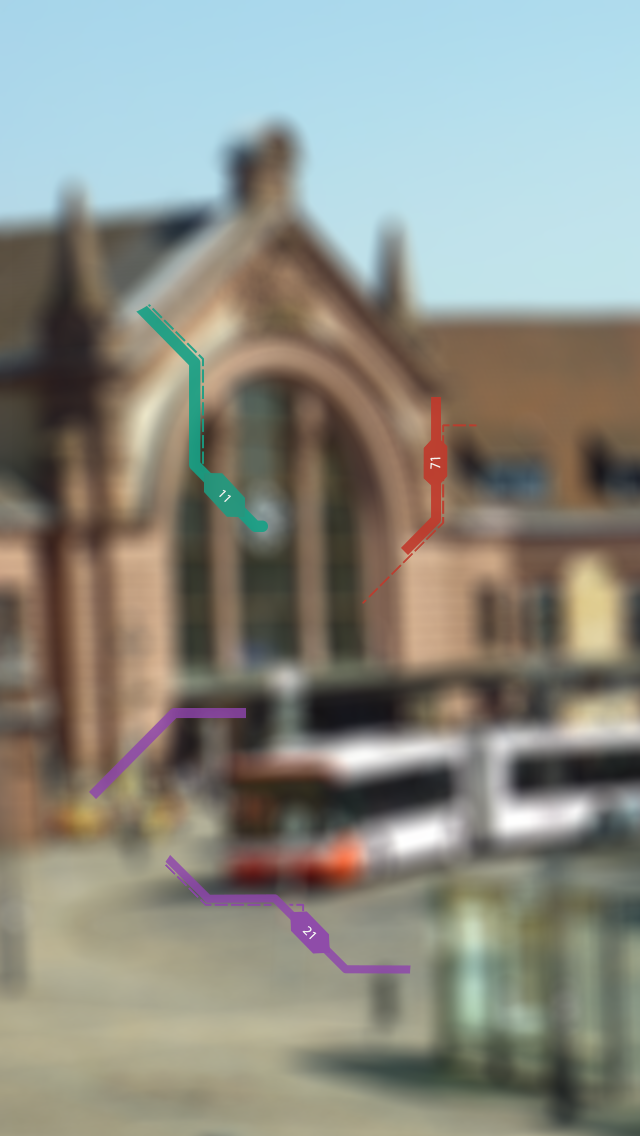
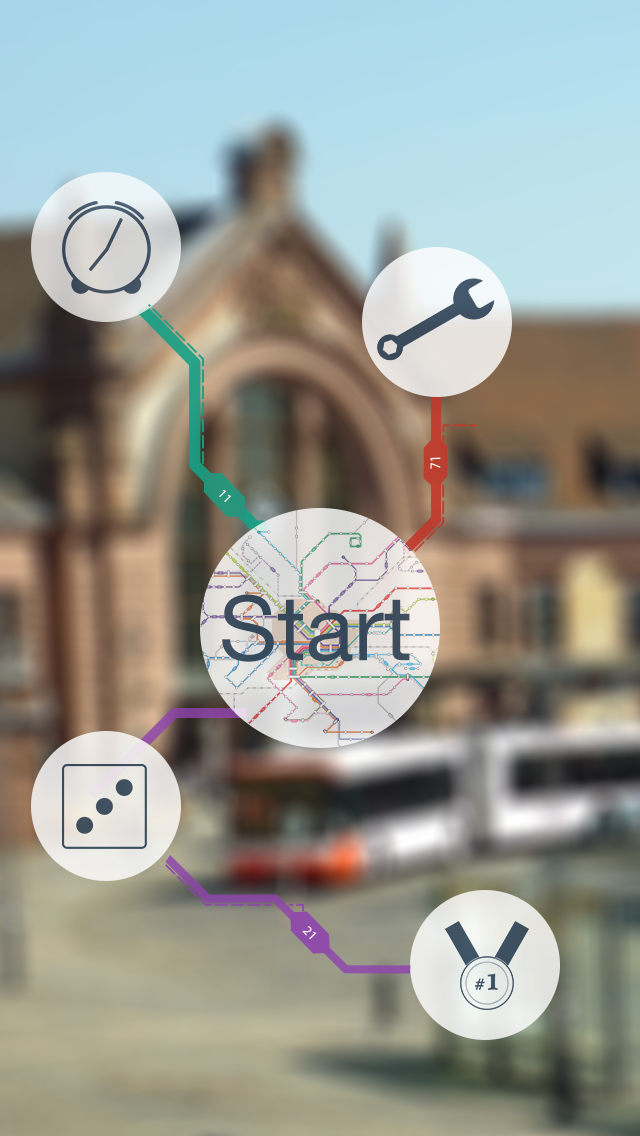
Button background fix + Main-Menu background image edit

diff --git a/VosTest/app/view/achView.js b/VosTest/app/view/achView.js
@@ -45,7 +45,7 @@ Ext.define('VosNavigator.view.achView', {
                         height: '65px',
                         html: '<p>zurück</p>',
                         id: 'achBackButton',
-                        style: '-moz-border-radius: 46px;\n-webkit-border-radius: 46px;\nborder-radius: 46px; /* border radius */\n-moz-background-clip: padding;\n-webkit-background-clip: padding-box;\nbackground-clip: padding-box; /* prevents bg color from leaking outside the border */\nbackground-color: rgba(51, 73, 93, 0.9);\ndisplay:block;\nfloat:left;\nfont-size:13px;\nline-height:65px;',
+                        style: '-moz-border-radius: 46px;\n-webkit-border-radius: 46px;\nborder-radius: 46px; /* border radius */\n-moz-background-clip: padding;\n-webkit-background-clip: padding-box;\nbackground-clip: padding-box; /* prevents bg color from leaking outside the border */\nbackground-color: #3d4f5e;\nopacity: 0.9;\ncolor:#fff;\nline-height:65px;\ndisplay:block;\nfloat:left;\nfont-size:13px;\nline-height:65px;',
                         styleHtmlContent: true,
                         width: 65,
                         text: 'zurück'
@@ -61,7 +61,7 @@ Ext.define('VosNavigator.view.achView', {
                         html: 'Punkte',
                         id: 'scoreButton',
                         right: '0px',
-                        style: '-moz-border-radius: 46px;\n-webkit-border-radius: 46px;\nborder-radius: 46px; /* border radius */\n-moz-background-clip: padding;\n-webkit-background-clip: padding-box;\nbackground-clip: padding-box; /* prevents bg color from leaking outside the border */\nbackground-color: rgba(51, 73, 93, 0.9);\nfloat:right;\ndisplay:block;\nline-height:65px;\nfont-size:13px;\nfont-weight:normal;',
+                        style: '-moz-border-radius: 46px;\n-webkit-border-radius: 46px;\nborder-radius: 46px; /* border radius */\n-moz-background-clip: padding;\n-webkit-background-clip: padding-box;\nbackground-clip: padding-box; /* prevents bg color from leaking outside the border */\nbackground-color: #3d4f5e;\nopacity: 0.9;\ncolor:#fff;\nline-height:65px;\nfloat:right;\ndisplay:block;\nline-height:65px;\nfont-size:13px;\nfont-weight:normal;',
                         styleHtmlContent: true,
                         width: 65,
                         text: 'score'

diff --git a/VosTest/app/view/FahrplanerView.js b/VosTest/app/view/FahrplanerView.js
@@ -127,7 +127,7 @@ Ext.define('VosNavigator.view.fahrplanerView', {
                         html: '<h1 style="line-height:65px;font-size:15px;">zurück</h1>',
                         id: 'fahrplanerBackButton',
                         right: '0px',
-                        style: '-moz-border-radius: 46px;\n-webkit-border-radius: 46px;\nborder-radius: 46px; /* border radius */\n-moz-background-clip: padding;\n-webkit-background-clip: padding-box;\nbackground-clip: padding-box; /* prevents bg color from leaking outside the border */\nbackground-color: rgba(51, 73, 93, 0.9);\nfloat:right;\ndisplay:block;\nfont-size:11px;',
+                        style: '-moz-border-radius: 46px;\n-webkit-border-radius: 46px;\nborder-radius: 46px; /* border radius */\n-moz-background-clip: padding;\n-webkit-background-clip: padding-box;\nbackground-clip: padding-box; /* prevents bg color from leaking outside the border */\nbackground-color: #3d4f5e;\nopacity: 0.9;\ncolor:#fff;\nline-height:65px;\nfloat:right;\ndisplay:block;\nfont-size:11px;',
                         styleHtmlContent: true,
                         width: 65,
                         text: 'back'

diff --git a/VosTest/app/view/SettingsView.js b/VosTest/app/view/SettingsView.js
@@ -68,7 +68,7 @@ Ext.define('VosNavigator.view.settingsView', {
                         html: '<h1 style="line-height:65px;font-size:15px;">zurück</h1>',
                         id: 'settingsBackButton',
                         right: '0px',
-                        style: '-moz-border-radius: 46px;\n-webkit-border-radius: 46px;\nborder-radius: 46px; /* border radius */\n-moz-background-clip: padding;\n-webkit-background-clip: padding-box;\nbackground-clip: padding-box; /* prevents bg color from leaking outside the border */\nbackground-color: rgba(51, 73, 93, 0.9);\nfloat:right;\ndisplay:block;\nfont-size:11px;',
+                        style: '-moz-border-radius: 46px;\n-webkit-border-radius: 46px;\nborder-radius: 46px; /* border radius */\n-moz-background-clip: padding;\n-webkit-background-clip: padding-box;\nbackground-clip: padding-box; /* prevents bg color from leaking outside the border */\nbackground-color: #3d4f5e;\nopacity: 0.9;\ncolor:#fff;\nline-height:65px;\nfloat:right;\ndisplay:block;\nfont-size:11px;',
                         styleHtmlContent: true,
                         width: 65,
                         text: 'back'

diff --git a/VosTest/app/view/WeckerView.js b/VosTest/app/view/WeckerView.js
@@ -125,7 +125,7 @@ Ext.define('VosNavigator.view.weckerView', {
                         html: '<h1 style="line-height:65px;font-size:15px;">zurück</h1>',
                         id: 'weckerBackButton',
                         right: '0px',
-                        style: '-moz-border-radius: 46px;\n-webkit-border-radius: 46px;\nborder-radius: 46px; /* border radius */\n-moz-background-clip: padding;\n-webkit-background-clip: padding-box;\nbackground-clip: padding-box; /* prevents bg color from leaking outside the border */\nbackground-color: rgba(51, 73, 93, 0.9);\nfloat:right;\ndisplay:block;\nfont-size:11px;',
+                        style: '-moz-border-radius: 46px;\n-webkit-border-radius: 46px;\nborder-radius: 46px; /* border radius */\n-moz-background-clip: padding;\n-webkit-background-clip: padding-box;\nbackground-clip: padding-box; /* prevents bg color from leaking outside the border */\nbackground-color: #3d4f5e;\nopacity: 0.9;\ncolor:#fff;\nline-height:65px;\nfloat:right;\ndisplay:block;\nfont-size:11px;',
                         styleHtmlContent: true,
                         width: 65,
                         text: 'back'

diff --git a/VosTest/app/view/GoalsView.js b/VosTest/app/view/GoalsView.js
@@ -59,7 +59,7 @@ Ext.define('VosNavigator.view.goalsView', {
                         html: '<h1 style="line-height:65px;font-size:15px;">zurück</h1>',
                         id: 'goalsBackButton',
                         right: '0px',
-                        style: '-moz-border-radius: 46px;\n-webkit-border-radius: 46px;\nborder-radius: 46px; /* border radius */\n-moz-background-clip: padding;\n-webkit-background-clip: padding-box;\nbackground-clip: padding-box; /* prevents bg color from leaking outside the border */\nbackground-color: rgba(51, 73, 93, 0.9);\nfloat:right;\ndisplay:block;\nfont-size:11px;',
+                        style: '-moz-border-radius: 46px;\n-webkit-border-radius: 46px;\nborder-radius: 46px; /* border radius */\n-moz-background-clip: padding;\n-webkit-background-clip: padding-box;\nbackground-clip: padding-box; /* prevents bg color from leaking outside the border */\nbackground-color: #3d4f5e;\nopacity: 0.9;\ncolor:#fff;\nline-height:65px;\nfloat:right;\ndisplay:block;\nfont-size:11px;',
                         styleHtmlContent: true,
                         width: 65,
                         text: 'back'
